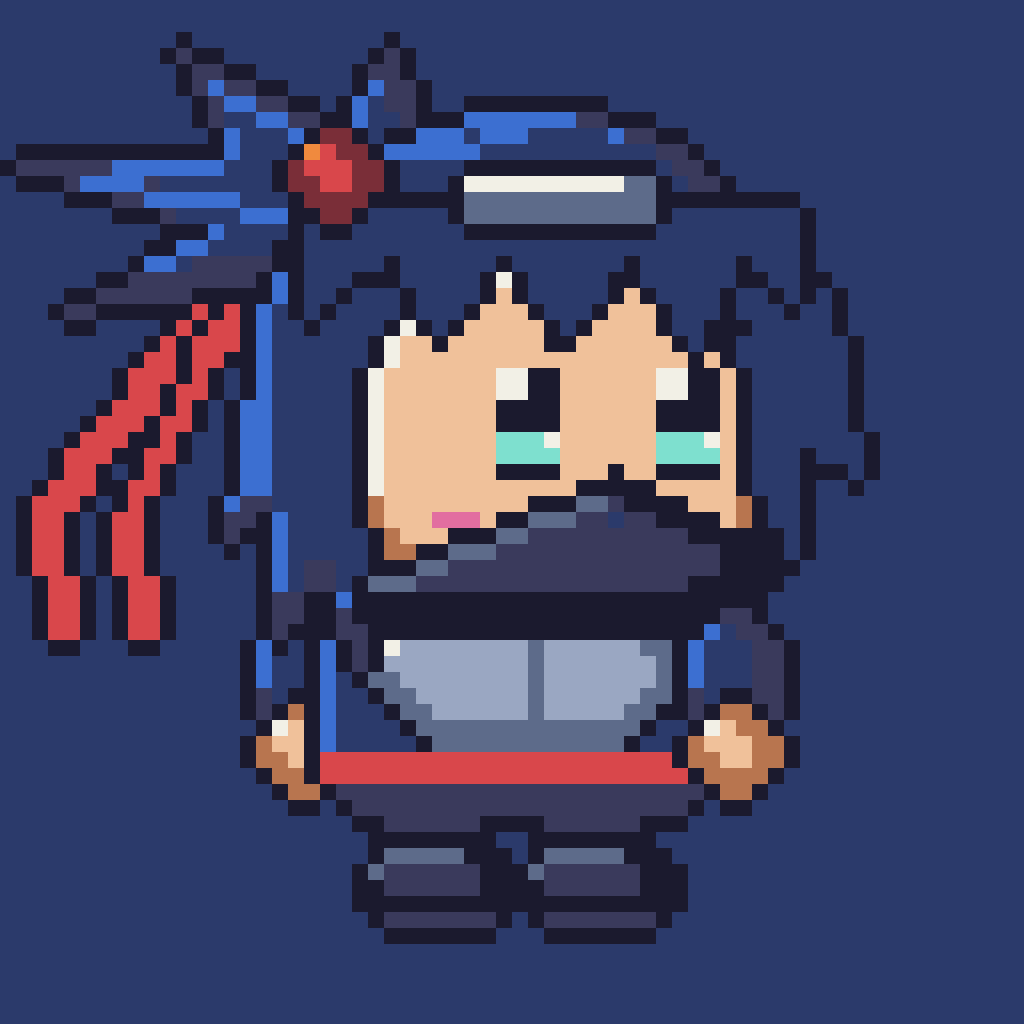
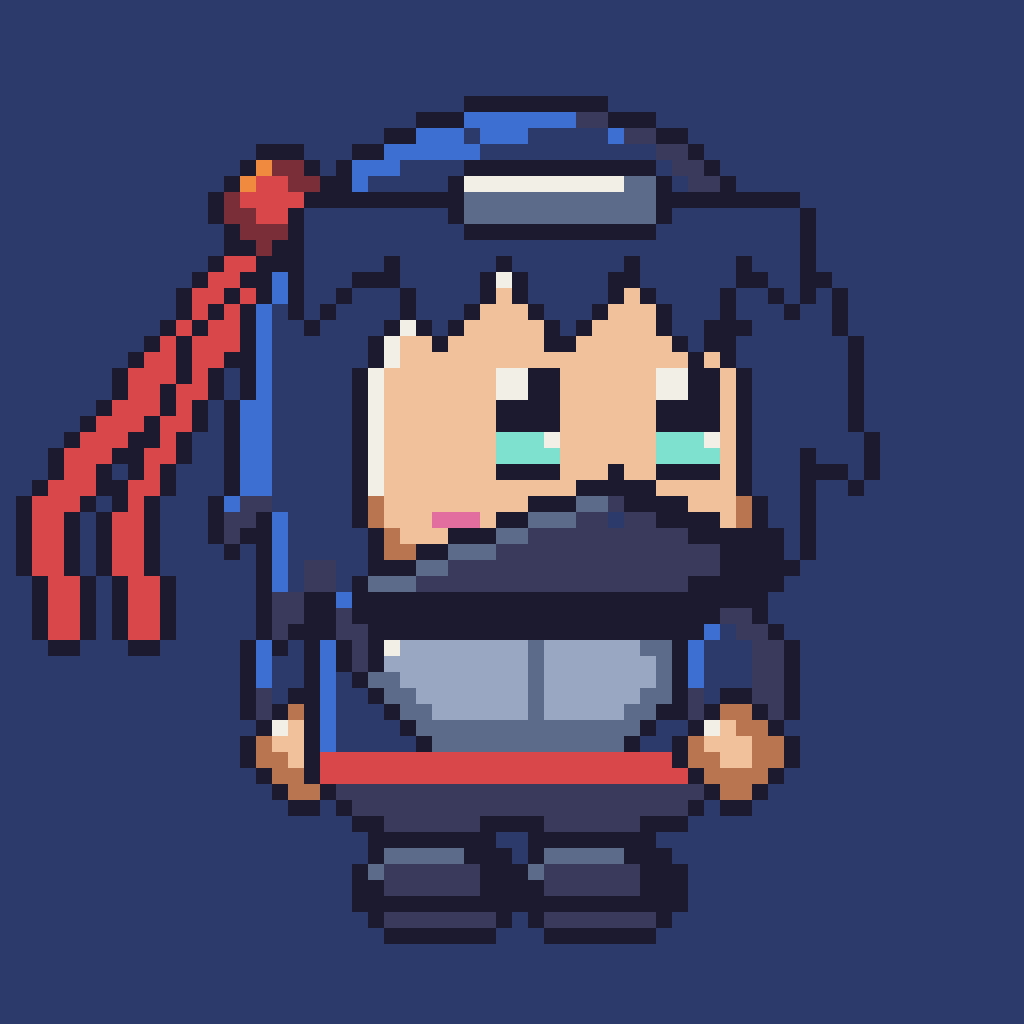
Shade's bigger topknot as a crown, tie behind her hair; detailed Great Ape morph
Shade: the topknot is drawn above the art box (CROWNS, kept on KO via KO_CROWNS), its red tie
tucked behind her hair. Great Ape morph: both ends' details ride the in-betweens, the gold armour
cracks and breaks away, and red rises up his face as he gets angry.

Claude-Session: https://claude.ai/code/session_01J8LgTLVYzThXjNSRVhWqep

Changed region(s): [[0.0, 0.0312, 0.4375, 0.3438]]

diff --git a/tools/sprites/generate.py b/tools/sprites/generate.py
@@ -169,9 +169,9 @@ def legs(c: Canvas, pants, boots, step) -> list[int]:
 # --- characters: each returns (legs canvas, upper canvas), facing right ------
 
 def flicker(step=None, t=0):
-    """Shade, a kunoichi: a choppy jagged bob with a short spiky topknot that swings in the wind, red ribbon tails fluttering from its tie, a steel forehead
+    """Shade, a kunoichi: a choppy jagged bob with a big spiky topknot that swings in the wind, red ribbon tails fluttering from its tie, a steel forehead
     plate, big lashed teal eyes over a mask that peaks at the bridge of her nose; fitted navy shroud, a metal
-    breastplate and a red sash."""
+    breastplate and a red sash. The topknot is too big for the art box: it's drawn above it (CROWNS: flicker_topknot)."""
     low = Canvas()
     for x, dy in legs(low, NAVY, SHADOW, step):
         low.flat(R((x, 49 + dy, x + 5, 49 + dy)), SHADOW)  # leg wraps
@@ -188,11 +188,7 @@ def flicker(step=None, t=0):
     for x0, lag in ((18, 1), (21, 2)):
         up.part(L([(x0, 10), (x0 - 7 - wave(lag, 1), 20), (x0 - 12 - wave(lag + 1, 2), 30),
                    (x0 - 13 - wave(lag + 2, 2), 37)], 2), RED, shade=False)
-    # short spiky topknot: three tufts fanning back from the crown; the whole tuft swings, the tips furthest
-    up.part(P([(28, 9), (24 - wave(0, 1), 1), (21 - wave(0, 1), 6), (13 - wave(1, 1.5), 1), (16 - wave(1, 1), 8),
-               (5 - wave(2, 2), 8), (14 - wave(1, 1), 12), (6 - wave(3, 2), 17), (19, 15)]), NAVY)
-    up.flat(L([(22, 8), (15 - wave(1, 1.5), 3)], 1), BLUE)  # its sheen
-    up.flat(L([(17, 11), (9 - wave(2, 2), 9)], 1), BLUE)
+    up.part(RR((14, 8, 20, 13), 2), RED)  # tie round the topknot's base, half hidden behind her hair
     # choppy bob: the head's hair ends in jagged points round the back of her neck
     up.part(lambda d, f: (d.ellipse((16, 5, 50, 36), f), d.polygon(
         [(16, 20), (14, 31), (17, 29), (17, 37), (20, 33), (22, 39), (24, 32), (24, 20)], f)), NAVY)
@@ -205,7 +201,6 @@ def flicker(step=None, t=0):
                (19, 17)]), NAVY, shade=False)  # choppy fringe, over the side lock
     up.part(R((29, 9, 40, 11)), STEEL)  # small forehead plate
     up.flat(R((34, 10, 35, 10)), STEEL_D)  # its engraving
-    up.part(RR((18, 6, 23, 11), 2), RED)  # ribbon tying the topknot
     big_eyes(up, EYES_Y - 1, EYES_X, TEAL_L, h=6)
     if not KO:
         for x in EYES_X:  # lashes flick up and out at the top outer corner
@@ -216,6 +211,20 @@ def flicker(step=None, t=0):
     up.dot(38, 30, NAVY)  # seam under the peak
     up.flat(R((BLUSH[0], 30, BLUSH[0] + 2, 30)), PINK)  # blush above it
     return low, up
+
+
+def flicker_topknot(t: int, dy: int) -> Canvas:
+    """Shade's big spiky topknot: four fat tufts fanning back from her crown, rising above the art box; the whole tuft
+    swings in the wind, the tips furthest. A CELL canvas drawn behind the body; `dy` = the head's bob."""
+    c = Canvas(CELL)
+    wave = lambda lag, amp: round(HAIR_FLOW[(t - lag) % 4] * amp)
+    at = lambda pts: [(PAD + x, PAD + UPPER_DY + dy + y) for x, y in pts]  # art px -> cell px
+    c.part(P(at([(29, 9), (25 - wave(0, 1), -4), (19 - wave(0, 1), 3), (9 - wave(1, 1.5), -3), (12 - wave(1, 1), 7),
+                 (-2 - wave(2, 2), 5), (9 - wave(2, 1), 11), (-3 - wave(3, 2), 15), (10 - wave(2, 1), 16),
+                 (2 - wave(3, 1.5), 24), (19, 18)])), NAVY)
+    c.flat(L(at([(22, 6), (12 - wave(1, 1.5), 0)]), 1), BLUE)  # its sheen
+    c.flat(L(at([(15, 10), (2 - wave(2, 2), 9)]), 1), BLUE)
+    return c
 
 def warden(step=None, t=0):
     """Shield: armoured knight with a plume, cape and tower shield."""
@@ -528,6 +537,12 @@ APE_POSES = {"walk": ((((15, 26), (13, 36), (17, 44)), ((49, 26), (51, 36), (47,
              "raise": ((((15, 26), (9, 18), (10, 13)), ((49, 26), (55, 18), (54, 13))), ((4, 2, -2), (48, 2, 9))),
              "smash": ((((15, 26), (28, 36), (40, 44)), ((49, 26), (54, 36), (54, 44))), ((35, 46, -2), (48, 46, 9)))}
 
+
+## Wukong's golden armour breaking in the morph: (crack, chunk that then falls away), in the armour's 24x15 px.
+APE_ARMOUR_BREAKS = [([(6, 0), (8, 4), (6, 7), (9, 10)], [(6, 0), (8, 4), (6, 7), (2, 6), (1, 1)]),
+                     ([(18, 2), (16, 5), (19, 8)], [(18, 2), (16, 5), (19, 8), (23, 7), (23, 2)]),
+                     ([(2, 9), (5, 11), (4, 15)], [(2, 9), (5, 11), (4, 15), (0, 15), (0, 10)]),
+                     ([(12, 6), (14, 10), (12, 14)], [(12, 6), (14, 10), (12, 14), (9, 12), (9, 8)])]
 
 ## The Great Ape's circlet: Wukong's, tilted askew and cracked; the morph cracks it one line at a time.
 APE_CIRCLET = [(23, 8), (47, 4), (47, 9), (23, 13)]
@@ -1235,6 +1250,18 @@ def ape_morph(t: float, scale: float) -> Image.Image:
         x0, y0 = points[0]
         return [pt((x0 + (x - x0) * f, y0 + (y - y0) * f), (x0 + (x - x0) * f, y0 + (y - y0) * f), u) for x, y in points]
 
+    ape_face = (28, 11, 50, 29)
+
+    def on_face(points, ape_side=False):  # face details ride the face as it slides and shrinks into the ape's
+        fa, fb = (ape_face, FACE) if ape_side else (FACE, ape_face)
+        other = [(fb[0] + (x - fa[0]) * (fb[2] - fb[0]) / (fa[2] - fa[0]),
+                  fb[1] + (y - fa[1]) * (fb[3] - fb[1]) / (fa[3] - fa[1])) for x, y in points]
+        return pts(other, points, u) if ape_side else pts(points, other, u)
+
+    def sub_box(b, rel, size):  # rel = (x0, y0, x1, y1) inside a part `size` art px wide/high, mapped onto box b
+        sx, sy = (b[2] - b[0]) / size[0], (b[3] - b[1]) / size[1]
+        return (b[0] + rel[0] * sx, b[1] + rel[1] * sy, b[0] + rel[2] * sx, b[1] + rel[3] * sy)
+
     # dark storm clouds gather: ape_storm's puffs drift in from further out, swelling one after another
     for j, (x, y, r) in enumerate(((9, 28, 6), (14, 19, 5), (8, 39, 5), (10, 48, 4), (21, 11, 4), (55, 20, 4),
                                    (58, 31, 3), (50, 12, 3))):
@@ -1258,11 +1285,33 @@ def ape_morph(t: float, scale: float) -> Image.Image:
     for x0, x1 in ((24, 21), (34, 35)):  # legs thicken and splay; feet broaden
         c.part(P(pts([(x0, 45), (x0 + 5, 45), (x0 + 5, 54), (x0, 54)],
                      [(x1, 44), (x1 + 8, 44), (x1 + 9, 54), (x1 - 1, 54)])), MAROON if ape else RED)
-        c.part(RR(box((x0 - 1, 53, x0 + 7, 57), (x1 - 2, 53, x1 + 10, 58)), w(2, 2)), BROWN)
+        if not ape:
+            c.flat(R(box((x0, 50, x0 + 6, 50), (x1, 50, x1 + 8, 50))), YELLOW)  # leg wraps
+        if t > 0.4:  # the big toe splays out
+            c.part(E(box((x0 + 1, 54, x0 + 2, 57), (x1 - 5, 54, x1, 58))), BROWN)
+        foot = box((x0 - 1, 53, x0 + 7, 57), (x1 - 2, 53, x1 + 10, 58))
+        c.part(RR(foot, w(2, 2)), BROWN)
+        c.flat(R((foot[0] + scale, foot[3], foot[2] - scale, foot[3])), SHADOW)  # sole
+        if ape:
+            for tx in (6, 9):  # toe creases
+                c.flat(R(sub_box(foot, (tx, 3, tx, 5), (12, 5))), OUTLINE)
     # the hunched back swells out from behind the armour
     c.part(E(box((20, 31, 44, 48), (10, 14, 54, 45), u)), fur)
     # the golden armour shrinks into the ape's chest
     c.part(RR(box((20, 33, 44, 48), (22, 26, 44, 43), u), w(3, 8)), BROWN if ape else YELLOW)
+    if not ape:
+        armour = box((20, 33, 44, 48), (22, 26, 44, 43), u)
+        on_armour = lambda q: [(armour[0] + x * (armour[2] - armour[0]) / 24, armour[1] + y * (armour[3] - armour[1]) / 15)
+                               for x, y in q]
+        c.flat(R(box((31, 36, 33, 44), (32, 30, 34, 39), u)), ORANGE)  # the armour's centre line
+        # the armour cracks, then chunks break away one by one, showing the dark fur swelling underneath
+        for j, (crack, chunk) in enumerate(APE_ARMOUR_BREAKS):
+            if t > 0.15 + 0.07 * j:
+                c.flat(L(on_armour(crack), max(1, round(scale))), OUTLINE)
+            if t > 0.3 + 0.07 * j:
+                c.part(P(on_armour(chunk)), BROWN if j % 2 else MAROON)
+        c.part(R(box((20, 44, 44, 46), (22, 40, 44, 42), u)), RED, line=False)  # sash
+        c.part(P(shrink([(22, 45), (17, 52), (21, 52), (25, 46)], 0.55)), RED)  # sash tail tucks away
     # arms and fists grow out from the sides of the body, poking out on the first in-between; the back arm
     # swings across the chest into the ape's knuckle-walk
     for start, arm in zip(([(21, 35), (16, 39), (15, 43)], [(43, 35), (48, 39), (49, 43)]), APE_POSES["walk"][0]):
@@ -1275,13 +1324,47 @@ def ape_morph(t: float, scale: float) -> Image.Image:
     for x0, (x1, y1, _thumb) in zip((11, 46), APE_POSES["walk"][1]):
         if ape:
             c.part(R(box((x0 + 1, 41, x0 + 6, 42), (x1 + 2, y1 - 4, x1 + 10, y1 - 1), u)), YELLOW)
-        c.part(RR(box((x0, 42, x0 + 7, 48), (x1, y1, x1 + 12, y1 + 11), u), w(2, 3)), fur)
-        c.flat(RR(box((x0 + 1, 45, x0 + 6, 48), (x1 + 1, y1 + 6, x1 + 11, y1 + 11), u), w(1, 1)), BROWN)  # curled fingers
+        fist = box((x0, 42, x0 + 7, 48), (x1, y1, x1 + 12, y1 + 11), u)
+        c.part(RR(fist, w(2, 3)), SKIN if t < 0.3 else fur)  # Wukong's hands, then furry fists
+        if t >= 0.3:
+            c.part(E(sub_box(fist, (_thumb, 1, _thumb + 5, 6), (12, 11))), fur)  # thumb over the fingers
+        c.flat(RR(box((x0 + 1, 45, x0 + 6, 48), (x1 + 1, y1 + 6, x1 + 11, y1 + 11), u), w(1, 1)),
+               SKIN_D if t < 0.3 else BROWN)  # curled fingers
+        if ape:
+            c.flat(R(sub_box(fist, (1, 6, 11, 6), (12, 11))), OUTLINE)
+            for kx in (4, 7):  # knuckle splits
+                c.flat(R(sub_box(fist, (kx, 6, kx, 11), (12, 11))), OUTLINE)
     # head: Wukong's round head pushes forward and shrinks into the ape's
     if t < 0.75:
         c.part(E(box((11, 17, 21, 28), (20, 10, 28, 20), u)), fur)  # ear tucks in
+        c.flat(E(box((14, 20, 18, 25), (22, 13, 26, 17), u)), SKIN_D if t < 0.4 else BROWN)
+    for x in (24, 31, 38):  # Wukong's fur tufts flatten into the ape's head
+        c.part(P(shrink([(x + 3, 9), (x, 9), (x + 3, 4), (x + 6, 9)], 0.6)[1:]), fur) if t < 0.6 else None
     c.part(E(box((15, 6, 49, 38), (24, 3, 50, 29), u)), fur)
-    c.part(RR(box(FACE, (28, 11, 50, 29), u), w(FACE_R, FACE_R)), face_c)
+    fb = box(FACE, ape_face, u)
+    c.part(RR(fb, w(FACE_R, FACE_R)), face_c)
+    if not ape:  # red rises up his face from the chin as his rage builds, its edge dithered so it climbs smoothly
+        level = fb[3] - (fb[3] - fb[1] + 4) * min(1.0, max(0.0, (t - 0.1) / 0.35))
+        flush = {SKIN: RED, SKIN_D: MAROON, WHITE: ORANGE}
+        px = c.img.load()
+        for y in range(int(fb[1]), int(fb[3]) + 1):
+            for x in range(int(fb[0]), int(fb[2]) + 1):
+                col = px[x, y][:3]
+                if px[x, y][3] and col in flush and y + 4 * BAYER[y % 4][x % 4] / 16 > level:
+                    px[x, y] = flush[col] + (255,)
+    if not ape:  # spiky fringe, blush and mouth ride the face
+        c.part(P(on_face([(23, 16), (47, 16), (47, 18), (43, 19), (39, 17), (35, 19), (30, 17), (26, 19), (23, 18)])),
+               fur, shade=False)
+        if t < 0.15:  # his blush, until the anger takes over
+            for bx in ((BLUSH[0], BLUSH[2], BLUSH[0] + 2, BLUSH[2]), (BLUSH[1], BLUSH[2], BLUSH[1] + 1, BLUSH[2])):
+                c.flat(R(tuple(v for q in on_face([bx[:2], bx[2:]]) for v in q)), ORANGE)
+        c.flat(R(tuple(v for q in on_face([MOUTH, (MOUTH[0] + 1, MOUTH[1])]) for v in q)), OUTLINE if t >= 0.3 else MAROON)
+        if t > 0.2:  # angry brows come down, slanting in towards the middle
+            for brow in ([(EYES_X[0] - 1, 18), (EYES_X[0] + 4, 20)], [(EYES_X[1] + 4, 18), (EYES_X[1] - 1, 20)]):
+                c.flat(L(on_face(brow), w(1, 1)), OUTLINE)
+    else:  # nostrils and grim mouth push in
+        for bx in ((38, 21, 39, 21), (42, 21, 43, 21), (34, 25, 46, 26)):
+            c.flat(R(tuple(v for q in on_face([bx[:2], bx[2:]], ape_side=True) for v in q)), OUTLINE)
     collar = ((11, 31, 3), (15, 35, 5), (21, 38, 4), (26, 39, 3), (43, 38, 3), (47, 36, 4))
     for x, y, r in collar:  # the cloud collar puffs away
         rr = r * scale * (1 - t / 0.5)
@@ -1299,6 +1382,9 @@ def ape_morph(t: float, scale: float) -> Image.Image:
     for j, crack in enumerate(APE_CRACKS):
         if t > 0.25 + 0.15 * j:
             c.flat(L(pts([on_wukong_band(x, y) for x, y in crack], crack, u), max(1, round(scale))), OUTLINE)
+    if t > 0.85:  # a corner chips off
+        chip = [(43, 4), (47, 4), (47, 6)]
+        c.flat(P(pts([on_wukong_band(x, y) for x, y in chip], chip, u)), OUTLINE)
     for x0, x1 in ((EYES_X[0], 32), (EYES_X[1], 42)):  # eyes slide and narrow; turn red and angry halfway
         ex, ey = pt((x0, 22), (x1, 14), u)
         eh = w(6, 3)
@@ -1306,6 +1392,7 @@ def ape_morph(t: float, scale: float) -> Image.Image:
         if ape:
             c.flat(R((ex, ey, ex + ew, ey + eh)), OUTLINE)
             c.flat(R((ex, ey + 1, ex + ew, ey + eh - 1)), RED)
+            c.dot(round(ex + scale), round(ey + 1), ORANGE)  # glow
         else:
             c.flat(R((ex, ey, ex + ew, ey + eh)), OUTLINE)
             c.flat(R((ex, ey + eh - 2, ex + ew, ey + eh - 1)), YELLOW)
@@ -1629,7 +1716,8 @@ AURAS = {"wukong": wukong_clouds, "wukong_ape": ape_storm, "flint": flint_embers
          "flint_inferno": lambda i: flint_embers(i, 1.0)}
 ## Optional per-frame art above the 64 px box (tall hair, flames), drawn on the CELL behind the frame:
 ## fn(tick, head_dy) -> Canvas(CELL). Not on death frames.
-CROWNS = {"flint": flint_crown, "flint_inferno": lambda t, dy: flint_crown(t, dy, 1.0)}  # optional per-frame effects drawn behind
+CROWNS = {"flicker": flicker_topknot, "flint": flint_crown, "flint_inferno": lambda t, dy: flint_crown(t, dy, 1.0)}  # optional per-frame effects drawn behind
+KO_CROWNS = {"flicker"}  # crowns that stay on a knocked-out body (Flint's flame goes out)
 ## Optional melee attack strip after the death frames (CharacterData "attack"): (pose, body dy) per frame,
 ## build(None, i, pose). Fists go up over his head, then smash down in front on frame 3 (the hit lands then:
 ## ape_fists windup), the body squashed, and settle back into the knuckle-walk.
@@ -1711,7 +1799,7 @@ def cell(img: Image.Image) -> Image.Image:
     return out
 
 
-def death_frames(build) -> list[Image.Image]:
+def death_frames(build, crown=None) -> list[Image.Image]:
     """8 CELL-sized frames, knocked out (X eyes, no aura): white flash, pops up, topples backwards (it
     faces right, so the head lands on the left), bounces, lies dizzy under circling stars, then
     dissolves (ordered dither) before the respawn."""
@@ -1721,7 +1809,7 @@ def death_frames(build) -> list[Image.Image]:
         low, up = build(None, 0)
     finally:
         KO = False
-    ko = Image.new("RGBA", (CELL, CELL), (0, 0, 0, 0))
+    ko = crown(0, 0).img if crown else Image.new("RGBA", (CELL, CELL), (0, 0, 0, 0))
     ko.alpha_composite(low.img, (PAD, PAD))
     ko.alpha_composite(up.img, (PAD, PAD + UPPER_DY))
     ground = ko.getbbox()[3]
@@ -1774,7 +1862,7 @@ def main() -> None:
             fs = frames(build, AURAS.get(name), CROWNS[name])
         else:
             fs = [cell(f) for f in frames(build, AURAS.get(name))]
-        fs += death_frames(build)
+        fs += death_frames(build, CROWNS.get(name) if name in KO_CROWNS else None)
         fs += [cell(f) for f in attack_frames(build, AURAS.get(name), ATTACKS.get(name, []))]
         sheet = Image.new("RGBA", (CELL * len(fs), CELL), (0, 0, 0, 0))
         for i, f in enumerate(fs):

diff --git a/CLAUDE.md b/CLAUDE.md
@@ -242,7 +242,8 @@ A mobile real-time PvP arena shooter. Combat feel is inspired by top-down roguel
   fighter cards with a special column beside them, then weapons. Removed per-character skill fields (Wukong's
   longer Somersault dash is gone: everyone shares one Dash).
 - **Flicker is the ninja** (2026-10-30): navy shroud, steel breastplate, mask peaking at the nose, steel forehead plate, choppy
-  bob with a spiky topknot and red ribbon tails that sway in idle; bare hands. Four Flicker-only specials (tag `flicker`): **Shadow Clones** (signature, CLONES: 3 decoys run out from
+  bob with a big spiky topknot (drawn above the art box: generate.py `CROWNS`, kept on KO via `KO_CROWNS`), its red
+  tie behind her hair, ribbon tails that sway in idle; bare hands. Four Flicker-only specials (tag `flicker`): **Shadow Clones** (signature, CLONES: 3 decoys run out from
   where you stood; positions are a pure function of the synced special state + walls (`Player.clone_points()`),
   drawn by `player/special_fx.gd` with the owner's sprite/weapon; harmless and bullets pass through, but enemy
   auto-aim and bots target them), **Blink** (BLINK: `move_and_collide` hop, walls stop it, i-frames),
@@ -251,9 +252,11 @@ A mobile real-time PvP arena shooter. Combat feel is inspired by top-down roguel
   with seq + `VOLLEY_SEQ_OFFSET`). Dual Wield is still pickable too.
   Flourishes (`SpecialFx`, detected from synced state changes so remote players show them too): clones appear in
   their own cloud poof in a ring around the player (`CLONE_START_DISTANCE`), fade in, and vanish in poofs; the Great Ape transformation morphs
-  (`SkillData.form_morph`: 8-frame 96 px strip, full colour: Wukong, six in-between creatures
+  (`SkillData.form_morph`: 12-frame 96 px strip, full colour: Wukong, ten in-between creatures
   drawn by generate.py `ape_morph(t, scale)` (every body part's shape interpolated, arms/fists sprout, feathers and
-  collar retract, colours switch in stages, growing), the ape; drawn at the normal sprite scale while the real
+  collar retract, colours switch in stages, growing; both ends' details ride their parts: Wukong's fringe, wraps, sash
+  fade out, the ape's toes, thumbs, knuckles, nostrils come in; the gold armour cracks and breaks away in chunks
+  (`APE_ARMOUR_BREAKS`) and red rises up his face from the chin, dithered), the ape; drawn at the normal sprite scale while the real
   sprite is hidden; his storm clouds live in the sheets, no cloud is drawn over him),
   and morphs back when it ends. These and the Smoke Bomb cloud are pixel-art strips generated into `assets/fx/`
   (generate.py `FX`: poof / poof_small 10 frames (swell, then burst into wisps), wukong_ape_morph, smoke 4-frame loop; `Canvas(size)`
